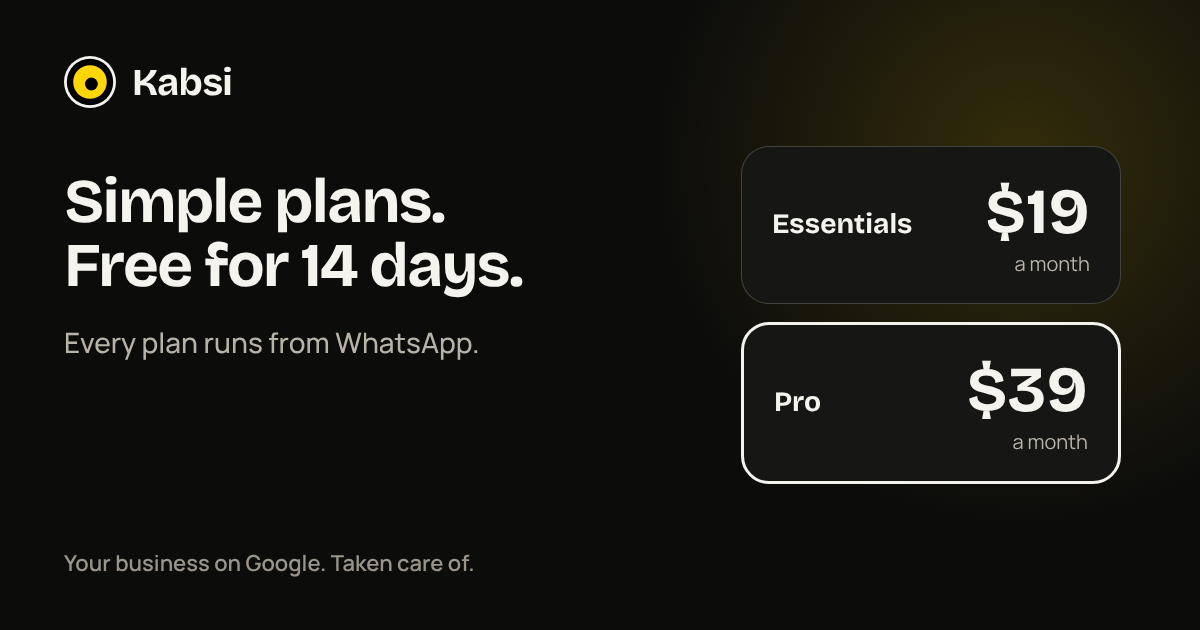
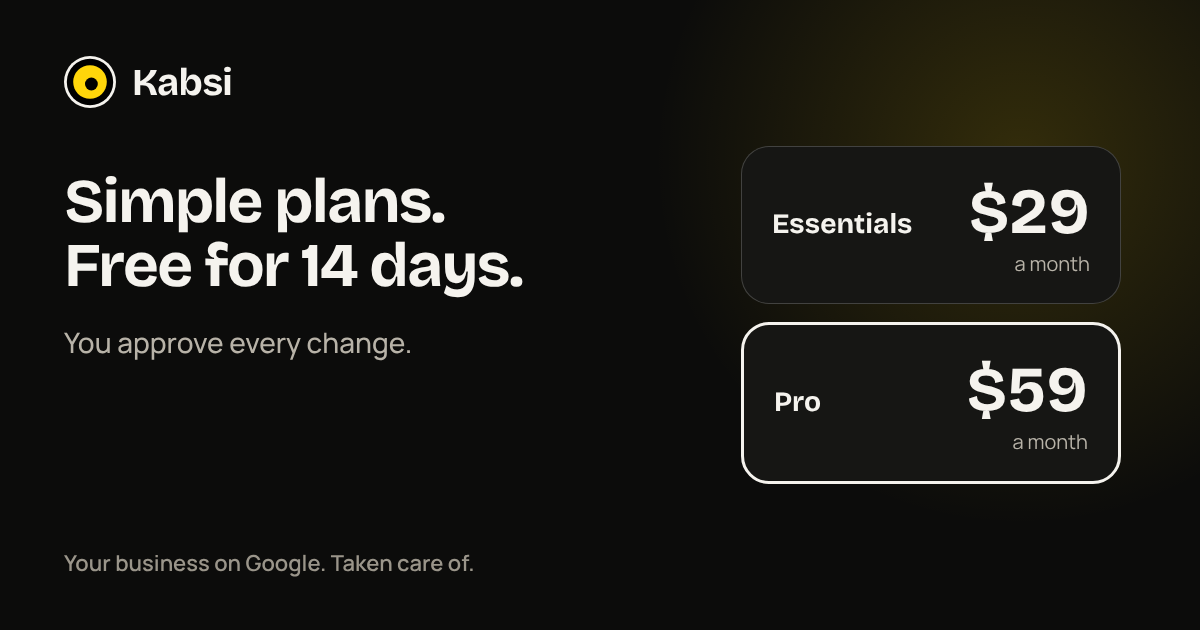
Price 1 part B2: review fixes
The /faq cost answer, the /partners earnings line and the WhatsApp prices reply
quoted 19 and 39 as the list price; the Plan page priced a cancelled business at
its old founding price (now only a running plan keeps its family); a visible line
that Creem's page shows the exact price; a test that 19 and 39 appear only as the
founding price; the pricing share image; COPY.md marks the old prices replaced.

Claude-Session: https://claude.ai/code/session_01WpE3aka2ZrhWBVSXYbDHqU

Changed region(s): [[0.0617, 0.5127, 0.4008, 0.573], [0.8017, 0.2714, 0.8942, 0.3921], [0.8325, 0.573, 0.8633, 0.6635]]

diff --git a/src/routes/_authenticated/app/plan.tsx b/src/routes/_authenticated/app/plan.tsx
@@ -168,7 +168,7 @@ function PlanScreen({ locationId, sum, d }: { locationId: string; sum: PlanSumma
   // Price 1: a running plan shows the price family it is on; a new checkout shows the founding price while places remain
   // (the server decides under its lock, and Creem's page shows the exact price before paying).
   const left = useFoundingLeft();
-  const founding = b ? !!b.founding : left !== null && left > 0;
+  const founding = running ? !!b.founding : left !== null && left > 0;
 
   async function run(
     op: BillingOp,
@@ -266,7 +266,7 @@ function PlanScreen({ locationId, sum, d }: { locationId: string; sum: PlanSumma
               </div>
               <p className="mt-2 font-display text-h2 font-bold">
                 $
-                {b?.founding
+                {running && b.founding
                   ? per
                     ? p.foundingYearly
                     : p.foundingMonthly
@@ -277,11 +277,11 @@ function PlanScreen({ locationId, sum, d }: { locationId: string; sum: PlanSumma
                   {per ? " a year" : " a month"}
                 </span>
               </p>
-              {b?.founding ? (
+              {running && b.founding ? (
                 <p className="mt-1 text-small font-semibold text-text-1">
                   Founding price, kept while you stay subscribed.
                 </p>
-              ) : b ? null : (
+              ) : running ? null : (
                 <FoundingPriceLine plan={p.id} yearly={per} left={left} />
               )}
               <ul className="mt-4 space-y-2">
@@ -315,6 +315,9 @@ function PlanScreen({ locationId, sum, d }: { locationId: string; sum: PlanSumma
           );
         })}
       </div>
+      {showChoose && open ? (
+        <p className="text-small text-text-2">Creem's page shows the exact price before you pay.</p>
+      ) : null}
 
       {running ? (
         <Panel title="Manage your plan" id="manage">

diff --git a/supabase/functions/_shared/whatsapp/replay.ts b/supabase/functions/_shared/whatsapp/replay.ts
@@ -205,7 +205,7 @@ export const SCENARIOS: Record<string, Scenario> = {
     name: "unknown_phone", about: "A phone Kabsi does not know: the welcome, prices, the scan code, nothing of any business", phones: [PHONES.unknown], ai: false, steps: [
       // The welcome goes on a phone's first message only; a replay phone has written before, so it gets the short menu.
       { note: "hello is the welcome of 24.8, or the menu after the first message", phone: PHONES.unknown, text: "Hello", expect: { result: /^(greeting|help)$/, reply: /Did you just scan your business on kabsi\.co|I am Nora, Kabsi's assistant/ } },
-      { note: "prices", phone: PHONES.unknown, text: "prices", expect: { result: "prices", reply: /19 US dollars.*39 US dollars/s } },
+      { note: "prices", phone: PHONES.unknown, text: "prices", expect: { result: "prices", reply: /29 US dollars.*59 US dollars/s } },
       { note: "stats needs an account and shows no business", phone: PHONES.unknown, text: "stats", expect: { result: "needs_account", reply: /needs a Kabsi account/, never: nothing("Harbour Lane", "Juniper") } },
       { note: "a staff command is never revealed", phone: PHONES.unknown, text: "status", expect: { result: /^(greeting|unclear|free|nora)/, never: nothing("Jobs failed", "Kabsi staff") } },
       { note: "the scan code", phone: PHONES.unknown, text: "Hi Kabsi, my scan code is KAB-2M9Q4X7P", expect: { result: "scan_code", reply: /KAB-2M9Q4X7P/, conv: { scan_code: "KAB-2M9Q4X7P" } } },

diff --git a/supabase/functions/_shared/whatsapp/conversations.test.ts b/supabase/functions/_shared/whatsapp/conversations.test.ts
@@ -59,7 +59,7 @@ const CASES: Case[] = [
     { from: PHONES.unknown, text: "my scan code is KAB-7Q4M2X9P", expect: "scan_code" },
     { from: PHONES.unknown, text: "Send the full map to my WhatsApp", expect: "map_pending", reply: /comes here as soon as it is ready/ }] },
   { name: "unknown: send the full map without a code asks for it", tags: ["unknown"], steps: [{ from: PHONES.unknown, text: "send the full map", expect: "map_no_code", reply: /business name or the code/ }] },
-  { name: "unknown: prices", tags: ["unknown"], steps: [{ from: PHONES.unknown, text: "prices", expect: "prices", reply: /19 US dollars.*39 US dollars/s }] },
+  { name: "unknown: prices", tags: ["unknown"], steps: [{ from: PHONES.unknown, text: "prices", expect: "prices", reply: /29 US dollars.*59 US dollars.*first 30 paying businesses pay 19 or 39/s }] },
   { name: "unknown: start free", tags: ["unknown"], steps: [{ from: PHONES.unknown, text: "start free", expect: "trial", reply: /kabsi\.co\/get-started/ }] },
   { name: "unknown: partner program", tags: ["unknown"], steps: [{ from: PHONES.unknown, text: "partner", expect: "partner_program", reply: /25 percent/ }] },
   { name: "unknown: talk to a person", tags: ["unknown"], steps: [{ from: PHONES.unknown, text: "talk to a person", expect: "handoff", reply: /within one business day/ }],

diff --git a/supabase/functions/_shared/whatsapp/say.ts b/supabase/functions/_shared/whatsapp/say.ts
@@ -21,7 +21,7 @@ export const SAY = {
   unknownHelp:
     "I am Nora, Kabsi's assistant. Kabsi looks after your business on Google from WhatsApp: a reply ready for every review, your Google profile kept right, and nothing goes live without your yes.\n\nYou can send: your business name for a free check, \"prices\", \"start free\", \"partner\" or \"talk to a person\".",
   prices:
-    "Kabsi is free for 14 days, no card. Then Essentials is 19 US dollars a month and Pro is 39 US dollars a month, with an extra location at 15. Card payments open soon. Details: kabsi.co/pricing",
+    "Kabsi is free for 14 days, no card. Then Essentials is 29 US dollars a month and Pro is 59 US dollars a month, with an extra location at 15. The first 30 paying businesses pay 19 or 39 and keep that price while they stay subscribed. Card payments open soon. Details: kabsi.co/pricing",
   // 13b part 2 (judged 25 Oct): only what the facts say is open today; WhatsApp for owners and Partners are not open yet.
   trial: "Start free here, no card, about 10 minutes: kabsi.co/get-started. The free trial starts once Kabsi can reach your Google profile.",
   partnerProgram:

diff --git a/src/components/kabsi/d2-legal.tsx b/src/components/kabsi/d2-legal.tsx
@@ -1,6 +1,14 @@
 // About and the FAQ (COPY.md 13 and 16). Security, Privacy and Terms keep kabsi-canvas's own full text in this layout
 // (src/components/marketing/legal.tsx).
-import { CONTACT_EMAIL, SOCIAL_LINKS, TRIAL_LINE, WHATSAPP_ON, WHATSAPP_URL } from "@/lib/site";
+import {
+  CONTACT_EMAIL,
+  FOUNDING_SENTENCE,
+  PRICES_SENTENCE,
+  SOCIAL_LINKS,
+  TRIAL_LINE,
+  WHATSAPP_ON,
+  WHATSAPP_URL,
+} from "@/lib/site";
 import { PageTop } from "./d2-parts";
 import { FAQ } from "./faq-data";
 import { FOUNDER, Img, PHOTOS } from "./photos";
@@ -133,7 +141,7 @@ const GROUPS: { id: string; title: string; items: { q: string; a: string }[] }[]
     items: [
       {
         q: "What does Kabsi cost?",
-        a: "Essentials is $19 a month and Pro is $39 a month. Both are free for 14 days, with no card.",
+        a: `${PRICES_SENTENCE} ${FOUNDING_SENTENCE} Both plans are free for 14 days, with no card.`,
       },
       {
         q: "Can I run more than one location?",

diff --git a/tests/prices.test.ts b/tests/prices.test.ts
@@ -114,6 +114,14 @@ describe("no retired price (lane R, 22 Oct 2026)", () => {
       }
     }
   });
+  it("never calls 19 or 39 the list price (Price 1): those amounts appear only as the founding price", () => {
+    for (const f of READABLE) {
+      const text = readText(f);
+      expect(text, `${f}: an old list price`).not.toMatch(
+        /(Essentials|Pro) (is|at|costs) \$?(19|39|190|390)\b|Essentials is (19|39) US dollars|Pro is (19|39) US dollars/,
+      );
+    }
+  });
   it("the facts file and llms-full.txt quote the six prices and no other Pro price", () => {
     for (const f of ["knowledge/kabsi-facts.md", "public/llms-full.txt"]) {
       const text = readText(f);

diff --git a/src/components/kabsi/d2-partners.tsx b/src/components/kabsi/d2-partners.tsx
@@ -173,7 +173,7 @@ export function PartnersPage() {
             <SectionHead
               id="p-earn"
               title="What you could earn"
-              lead="Pro is $39 a month. You earn 25% of every payment, while the referred subscription stays paid."
+              lead={`Pro is $${PRO.monthly} a month. You earn 25% of every payment, while the referred subscription stays paid.`}
             />
           </div>
           <Earnings />

diff --git a/docs/COPY.md b/docs/COPY.md
@@ -41,6 +41,7 @@ Decisions taken while writing (lane R, R-41):
 **Access steps (30.17, the same everywhere):** "On Google, open your profile (search your business name while signed in), then Menu, Business Profile settings, People and access, Add. Paste 5481006796, choose Manager, then Add (on some screens, Invite)." Under it: "5481006796 is Kabsi Clients, Kabsi's business group on Google. Never send us a password or a code." Button: "Copy the ID".
 
 ## 1. Home (/)
+*Changed by section 34 (Price 1, 30 Oct 2026): the prices in this section are replaced by the list prices 29 and 59 and the founding price 19 and 39.*
 
 **Hero**
 - H1: "Your business on Google. Taken care of through WhatsApp."
@@ -95,6 +96,7 @@ Table: Do it yourself (Free / Your evenings / Easy to forget) · Hire an agency 
 - Leaving: "Send me this report" with email or WhatsApp. Done: "Sent."
 
 ## 3. Pricing (/pricing)
+*Changed by section 34 (Price 1, 30 Oct 2026): the prices in this section are replaced by the list prices 29 and 59 and the founding price 19 and 39.*
 
 - H1: "Simple plans. Free for 14 days."
 - Lead: "Every plan has unlimited review replies and runs from WhatsApp. Prices in US dollars."
@@ -322,6 +324,7 @@ Changed by section 25 (UX 1, Design 3's approved lines win where they differ).
   - Retired: "Done. Kabsi added a location to your plan." and "Done. Your plan now has [n] extra locations." (the location now joins when Creem's payment goes through).
 
 ## 24. Web 2: the approved design lines on kabsi.co (27 Oct 2026)
+*Changed by section 34 (Price 1, 30 Oct 2026): the prices in this section are replaced by the list prices 29 and 59 and the founding price 19 and 39.*
 
 Web 2 ported the design studio's public pages (itskaysyoga-gif/kabsi-design-studio, docs/DESIGN-PROPOSAL.md). Every line below was approved by lane R in Design 1 to 5 (DESIGN-BRIEF.md sections 12, 13, 16 and 17) and is copied here word for word, so this file stays the one copy deck. The industry pages' lines are in src/content/industries/*.ts and the Home examples in src/content/home-examples.ts (Design 5, approved); Content 1 finishes the other nine industry pages there.
 
@@ -701,3 +704,4 @@ Each line replaces the one in brackets. Lines marked "switch" read the one Whats
 - Terms section 8: the founding sentence, Founding 25 at the founding price, and "Cancelling on the Plan page or by asking Kabsi ends your plan at the end of the period you paid for, and everything keeps working until then. Cancelling in Creem's own billing page ends the plan at once."
 - Trial-ending email: "Pro is $59 a month: a post every week, team roles, review graphics and the words people searched to find you. Essentials is $29 a month: every reply and 2 posts a month." then the founding sentence.
 - Creem product names (section 23 changes): list "Kabsi Essentials, monthly" / "yearly", "Kabsi Pro, monthly" / "yearly"; founding "Kabsi Essentials, monthly, founding price" and the same for the other three; "Extra location". Description: "Your Google profile and reviews, managed from WhatsApp."
+- Review fixes (Price 1 part B2): the /faq answer "What does Kabsi cost?" is the prices sentence and the founding sentence, then "Both plans are free for 14 days, with no card."; /partners "Pro is $59 a month. You earn 25% of every payment..."; the WhatsApp "prices" reply "Then Essentials is 29 US dollars a month and Pro is 59 US dollars a month, with an extra location at 15. The first 30 paying businesses pay 19 or 39 and keep that price while they stay subscribed."; the Plan page under the plan buttons "Creem's page shows the exact price before you pay."; the pricing share image "$29" and "$59" with "You approve every change."
